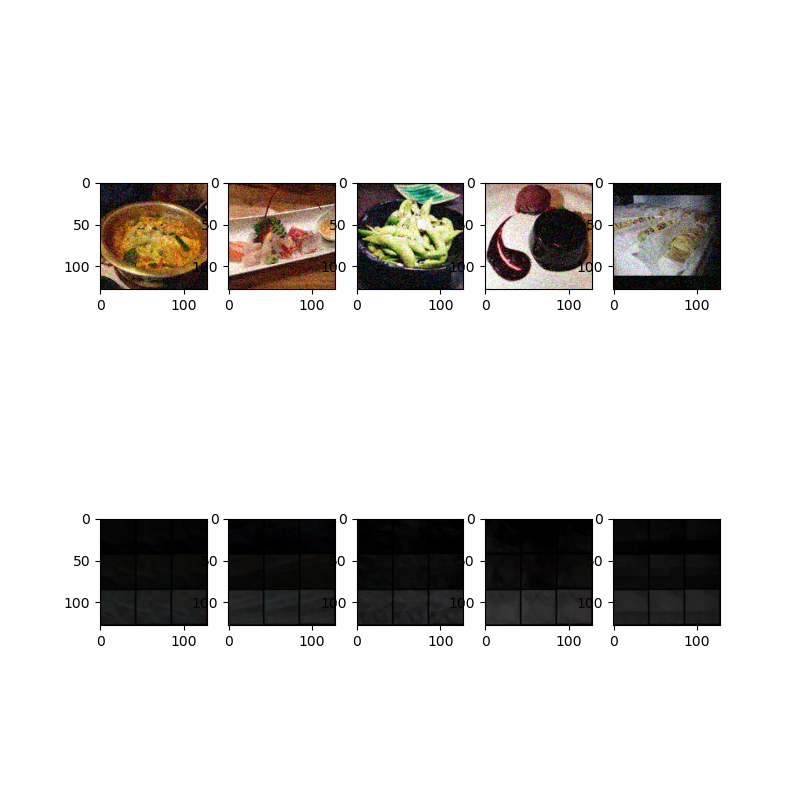
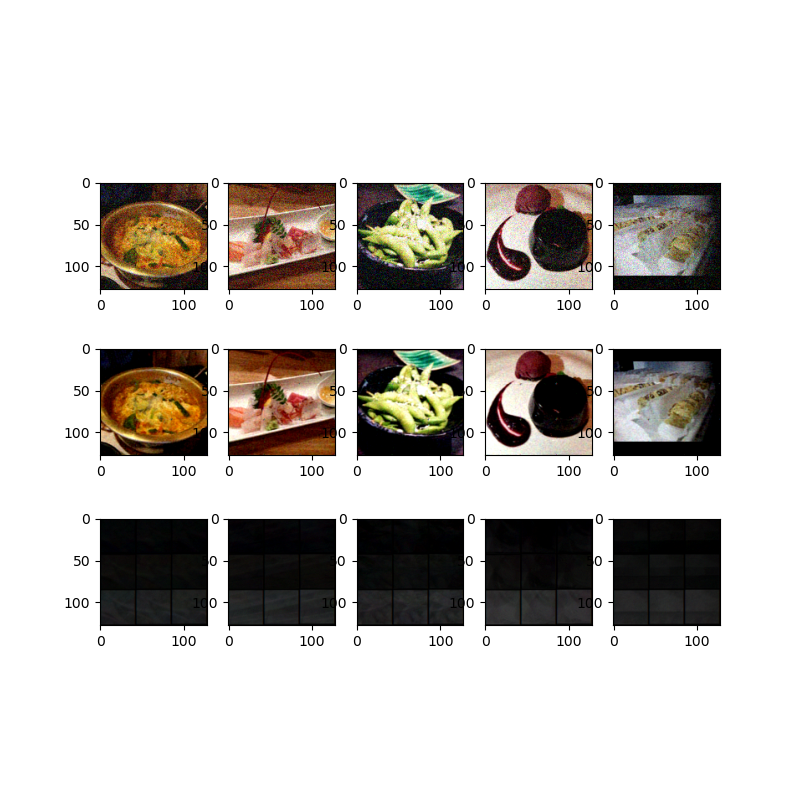
comments

Changed region(s): [[0.0938, 0.4375, 0.9062, 0.5938]]

diff --git a/code/autoencoder.py b/code/autoencoder.py
@@ -1,8 +1,5 @@
-import numpy as np
 import tensorflow as tf
-from keras.layers import Dense, Dropout, Flatten, Conv2D,  MaxPooling2D, GlobalAveragePooling2D, BatchNormalization, AveragePooling2D, Input, Conv2DTranspose, GaussianNoise
-from keras.applications.inception_v3 import InceptionV3
-from keras.regularizers import l2
+from keras.layers import Conv2D, Conv2DTranspose, GaussianNoise
 
 class Autoencoder(tf.keras.Model):
     def __init__(self, image_size):
@@ -12,42 +9,30 @@ class Autoencoder(tf.keras.Model):
         self.loss_list = []
         self.learning_rate = 0.001
         self.optimizer = tf.keras.optimizers.Adam(learning_rate = self.learning_rate)
+        
+        #Encoder
         self.encoder = tf.keras.Sequential([
             Conv2D(32, kernel_size=(3, 3), activation='relu', input_shape=(self.image_size,self.image_size,3)),
-            # MaxPooling2D(pool_size=(2, 2)),
             Conv2D(64, kernel_size=(3, 3), activation='relu'),
             Conv2D(64, kernel_size=(3, 3), activation='relu'),
-            # MaxPooling2D(pool_size=(2, 2))
             ])
         
+        #Decoder
         self.decoder = tf.keras.Sequential([
-            # MaxUnpooling2D(pool_size=(2, 2)),
             Conv2DTranspose(64, kernel_size=(3, 3), activation='relu'),
             Conv2DTranspose(64, kernel_size=(3, 3), activation='relu'),
-            # MaxUnpooling2D(pool_size=(2, 2)),
             Conv2DTranspose(3, kernel_size=(3, 3), activation='relu')])
         
-    def noiser(self, x, scale=(1,1), shift=(0,0), clip=(0,1), rand_fn=tf.random.uniform):
+    def noiser(self, inputs):
         '''
-        Adds noise scale and offset and clips results.
-        Default params lead to identify function with clipping to [0, 1]
-
-        - scale   : positional args to rand_fn for multiplicative component
-        - shift   : positional args to rand_fn for additive component
-        - clip    : range of ourput values to clip to
-        - rand_fn : random function to use (tf.random.<function>)
-
-        when rand_fn = uniform : scale/shift are minval, maxval
-        when rand_fn = normal  : scale/shift are mean, std dev
-        '''
-        # assert len(shift) == len(scale) == len(clip) == 2, "range arguments must be pairs of len 2"
+        Helper function that artificially adds noise to the given inputs
         
-        # noise_scale = rand_fn(tf.shape(x), *scale, dtype=tf.float32)  
-        # noise_shift = rand_fn(tf.shape(x), *shift, dtype=tf.float32)
-
-        # return tf.clip_by_value(x*noise_scale + noise_shift, 0, 1)
-        sample = GaussianNoise(0.05)
-        return sample(x, training=True)
+        :param inputs: inputs
+        
+        :return: noised inputs
+        '''
+        sample = GaussianNoise(0.1)
+        return sample(inputs, training=True)
 
     @tf.function
     def call(self, inputs):

diff --git a/code/assignment.py b/code/assignment.py
@@ -94,6 +94,7 @@ def test(model, test_inputs, test_labels):
 def visualize(title, list): 
     """
     Uses Matplotlib to visualize the loss/accuracy of our model.
+    
     :param title: type of data to visualize
     :param list: list of data stored from train.
 
@@ -111,17 +112,33 @@ def visualize(title, list):
     plt.close()
     
 def undo_preprocess(input):
+    """
+    Undos image manipulation done in preprocessing to revert back to a standard RGB image.
+    
+    :param input: preprocessed inputs
+    
+    :return: RGB image
+    """
     img = tf.dtypes.cast(input, tf.float64)
     img = tf.transpose(img, perm=[0,3,1,2])
     img = tf.reshape(img, (128, 128, 3))
     return img
 
 def view_autoencoder_results(inputs, model, num_classes, split):
+    """
+    Displays the orignal inputs and outputs of the trained autoencoder
+
+    :param inputs: preprocessed inputs
+    :param model: autoencoder model
+    :param num_classes: numnber of classes
+    :param split: train-test split quantity
+
+    :return: RGB image
+    """
     fig = plt.figure(figsize=(8, 8))
     
     rows = 2
     columns = num_classes
-    #original inputs
     print(inputs.shape)
     for i in range(1, num_classes+1):
         original_img = inputs[i*(1000-split)-1]
@@ -131,14 +148,15 @@ def view_autoencoder_results(inputs, model, num_classes, split):
         ae_img = undo_preprocess(ae_img)
         original_img = undo_preprocess(model.noiser(original_img))
         
+        # add original inputs
         fig.add_subplot(rows, columns, i)
         plt.imshow(original_img)
         
+        # add autoencoder outputs
         fig.add_subplot(rows, columns, i+columns)
         plt.imshow(ae_img)
         
-
-        
+    # save graph
     timestamp = time.strftime("%Y%m%d_%H%M%S")
     plt.savefig('../results/ae/ae_' + timestamp + '.png')
     plt.close()
@@ -219,12 +237,14 @@ def main(args):
         for e in range(epochs):
             print("Epoch: " + str(e+1) + "/" + str(epochs))
             train(model, train_inputs, train_labels)
-    # autoencoder.build(input_shape = (64, 128, 128, 3)) 
-    # autoencoder.summary()
-    # autoencoder.encoder.summary()
-    # autoencoder.decoder.summary()
     else:
+    ### CNN ###
         model = Model(num_classes, image_size)
+        
+        # Modify train inputs to denoise via trained autoencoder
+        # ae_model = Autoencoder(image_size)
+        # train_inputs = ae_model.call(train_inputs)
+        
         if args.weights is None:
             # Train model
             epochs = args.num_epochs

diff --git a/code/model.py b/code/model.py
@@ -1,6 +1,6 @@
 import numpy as np
 import tensorflow as tf
-from keras.layers import Dense, Dropout, Flatten, Conv2D, MaxPool2D, GlobalAveragePooling2D, BatchNormalization, AveragePooling2D, Input
+from keras.layers import Dense, Dropout, Flatten, Conv2D, MaxPooling2D, GlobalAveragePooling2D, BatchNormalization, AveragePooling2D, Input
 from keras.applications.inception_v3 import InceptionV3
 from keras.regularizers import l2
 
@@ -72,14 +72,14 @@ class Model(tf.keras.Model):
         #     Dense(self.num_classes, activation="softmax", kernel_regularizer=l2()),
         # ])
         self.cnn = tf.keras.Sequential()
-        self.cnn.add(tf.keras.layers.Conv2D(32, kernel_size=(3, 3), activation='relu', input_shape=(self.image_size,self.image_size,3)))
-        self.cnn.add(tf.keras.layers.MaxPooling2D(pool_size=(2, 2)))
-        self.cnn.add(tf.keras.layers.Conv2D(64, kernel_size=(3, 3), activation='relu'))
-        self.cnn.add(tf.keras.layers.MaxPooling2D(pool_size=(2, 2)))
-        self.cnn.add(tf.keras.layers.Flatten())
-        self.cnn.add(tf.keras.layers.Dense(64, activation='relu'))
-        self.cnn.add(tf.keras.layers.Dense(32, activation='relu'))
-        self.cnn.add(tf.keras.layers.Dense(self.num_classes, activation='softmax'))
+        self.cnn.add(Conv2D(32, kernel_size=(3, 3), activation='relu', input_shape=(self.image_size,self.image_size,3)))
+        self.cnn.add(MaxPooling2D(pool_size=(2, 2)))
+        self.cnn.add(Conv2D(64, kernel_size=(3, 3), activation='relu'))
+        self.cnn.add(MaxPooling2D(pool_size=(2, 2)))
+        self.cnn.add(Flatten())
+        self.cnn.add(Dense(64, activation='relu'))
+        self.cnn.add(Dense(32, activation='relu'))
+        self.cnn.add(Dense(self.num_classes, activation='softmax'))
 
     @tf.function
     def call(self, input):
